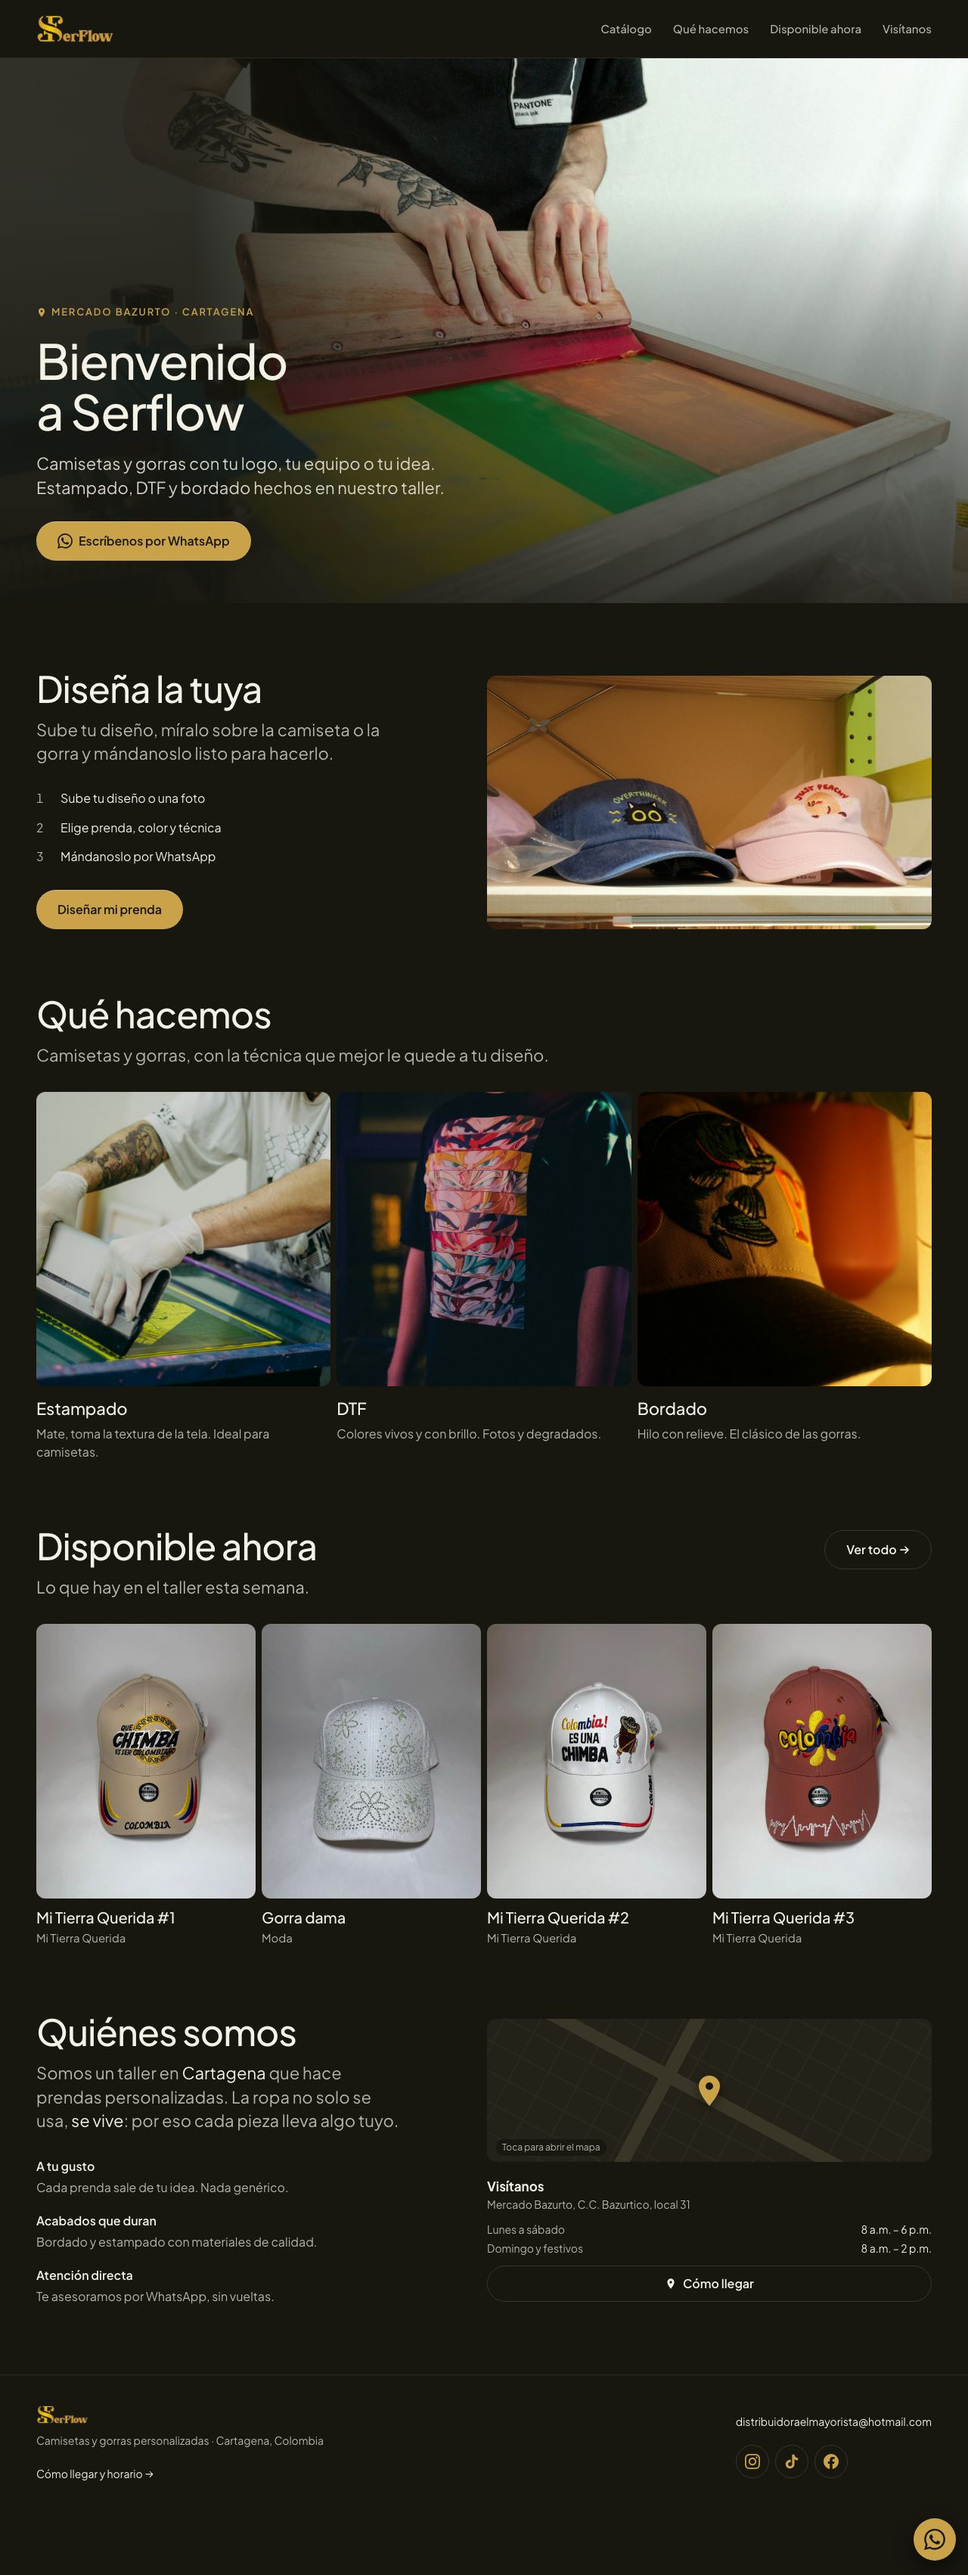
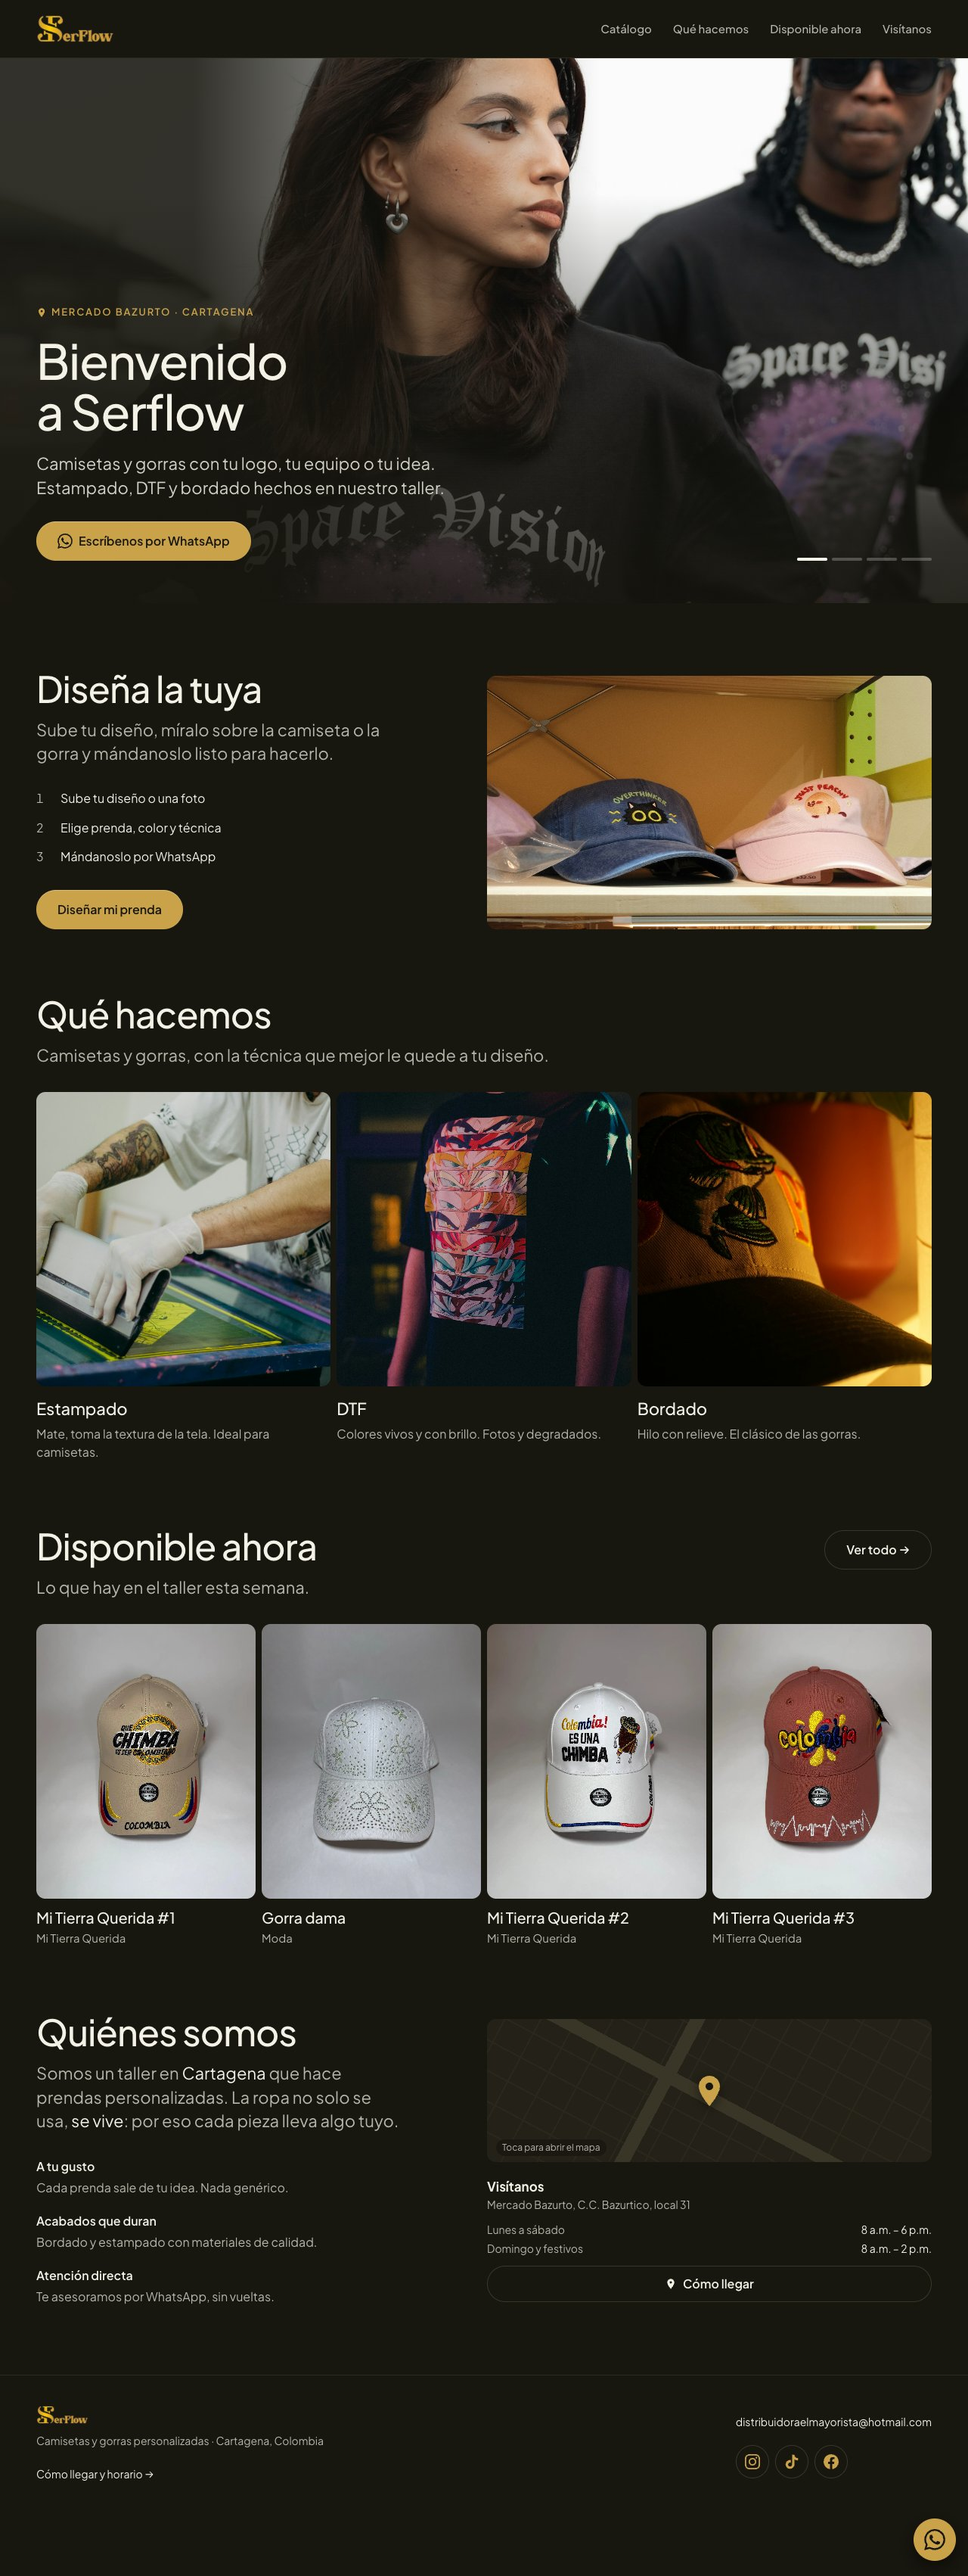
docs: PRI-286 homepage hero back to the master carousel: same 4 photos every 6 s with its progress bars in the grid margin, first bar full when motion is reduced

diff --git a/tempo/designs/canvases/portada-final/Portada.tsx b/tempo/designs/canvases/portada-final/Portada.tsx
@@ -8,7 +8,10 @@ import { ServiceCard } from "../../../../src/components/ui/ServiceCard";
 import { PinIcon } from "../../../../src/components/icons/PinIcon";
 import { WHATSAPP_URL } from "../../../../src/lib/business";
 import { Marco } from "../refresh-oro-viejo/comun";
+import camisetas from "../../../../src/assets/images/stock/camisetas-estampadas.jpg";
 import estampadoProceso from "../../../../src/assets/images/stock/estampado-proceso.jpg";
+import gorraBordada from "../../../../src/assets/images/stock/gorra-bordada.jpg";
+import amigosGorras from "../../../../src/assets/images/stock/amigos-gorras.jpg";
 import gorrasEstante from "../../../../src/assets/images/stock/gorras-estante.jpg";
 import estampadoRasero from "../../../../src/assets/images/stock/estampado-rasero.jpg";
 import camisetaDtf from "../../../../src/assets/images/stock/camiseta-dtf.jpg";
@@ -24,9 +27,12 @@ import gorraDama from "./fotos/gorra-dama.jpg";
  * Sin barra de promos: hoy no hay promos activas (PromoBar no se pinta con 0). Sin Ticker, sin hilo, sin "Nuevo".
  */
 
-/** Hero sin modelos: una sola foto, la del taller (con una, HeroCarousel no pinta etiqueta que rote ni barras). */
+/** El carrusel del hero de master (src/pages/index.astro, HERO): las mismas 4 fotos, en el mismo orden, cada 6 s. */
 const SLIDES: Slide[] = [
-  { src: estampadoProceso, caption: "Estampado en el taller", alt: "Manos pasando el rasero sobre una plancha de estampado", position: "50% 60%" },
+  { src: camisetas, caption: "Camisetas con tu diseño", alt: "Dos personas con camisetas negras estampadas", position: "50% 35%" },
+  { src: estampadoProceso, caption: "Estampado en el taller", alt: "Manos pasando el rasero sobre una plancha de estampado", position: "50% 50%" },
+  { src: gorraBordada, caption: "Gorras bordadas", alt: "Gorra blanca con bordado rojo", position: "50% 40%" },
+  { src: amigosGorras, caption: "Para tu equipo o tu grupo", alt: "Dos amigos con gorras personalizadas riéndose", position: "50% 30%" },
 ];
 
 const SERVICES = [

diff --git a/tempo/designs/canvases/portada-final/portada.css b/tempo/designs/canvases/portada-final/portada.css
@@ -88,12 +88,23 @@
 }
 .pf-hero-texto > .pf-lead { color: color-mix(in srgb, var(--color-ink) 85%, transparent); max-width: 34ch; }
 .pf-hero-texto > div { width: 100%; margin-top: 8px; }
-/* La etiqueta de la foto y la barra de avance en el margen de la rejilla, no a 16 px del borde. */
 /* La etiqueta de la foto quedaba sola arriba, lejos del texto: fuera. */
 .pf .pf-hero figcaption { display: none; }
+/* Indicadores del carrusel (una barra por foto, la de la foto que se ve se llena en sus 6 s) en el margen de la
+   rejilla. Celular: debajo del botón, a la izquierda, con el mismo 24 arriba y abajo. Desktop: a la derecha, en el
+   borde de abajo del botón. Con "reducir movimiento" la primera foto queda fija y las barras quietas (tokens.css). */
+.pf .pf-hero > div.absolute.bottom-4.right-4 { inset: auto auto 24px var(--pf-m); gap: 6px; }
+.pf .pf-hero:has(> div.absolute.bottom-4.right-4) .pf-hero-texto { padding-bottom: 52px; }
+/* Sin animación (reducir movimiento) queda la primera foto: su barra llena y las demás vacías, no las 4 llenas. La
+   animación, cuando corre, le gana a este transform. PUENTE: HeroCarousel (en el PR, en la clase anim-bar de tokens.css). */
+.pf .pf-hero .anim-bar { transform: scaleX(0); }
+.pf .pf-hero > div.absolute.bottom-4.right-4 > span:first-child .anim-bar { transform: none; }
 @container pf (min-width: 48rem) {
   .pf-hero { height: 720px; }
   .pf-hero-texto { padding-bottom: 56px; gap: 20px; }
+  .pf .pf-hero:has(> div.absolute.bottom-4.right-4) .pf-hero-texto { padding-bottom: 56px; }
+  .pf .pf-hero > div.absolute.bottom-4.right-4 { inset: auto var(--pf-m) 56px auto; }
+  .pf .pf-hero > div.absolute.bottom-4.right-4 > span { width: 40px; }
   .pf-hero-texto > div { width: auto; }
 }
 
